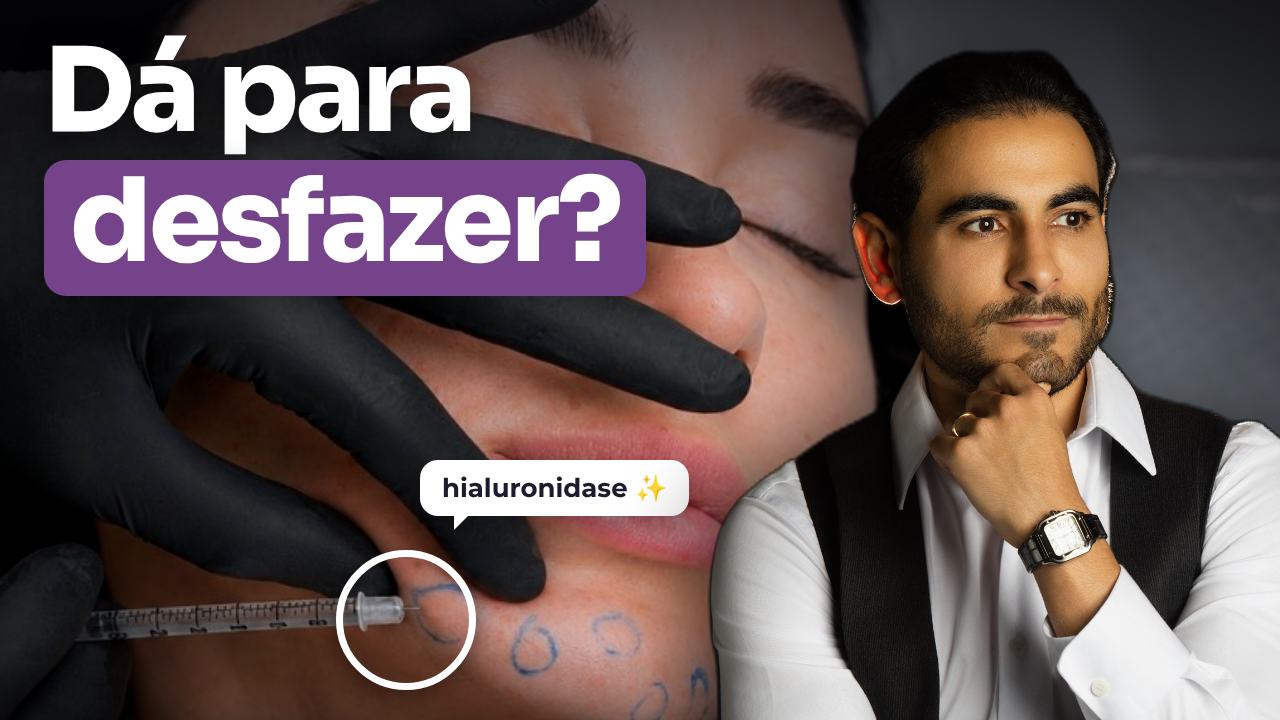
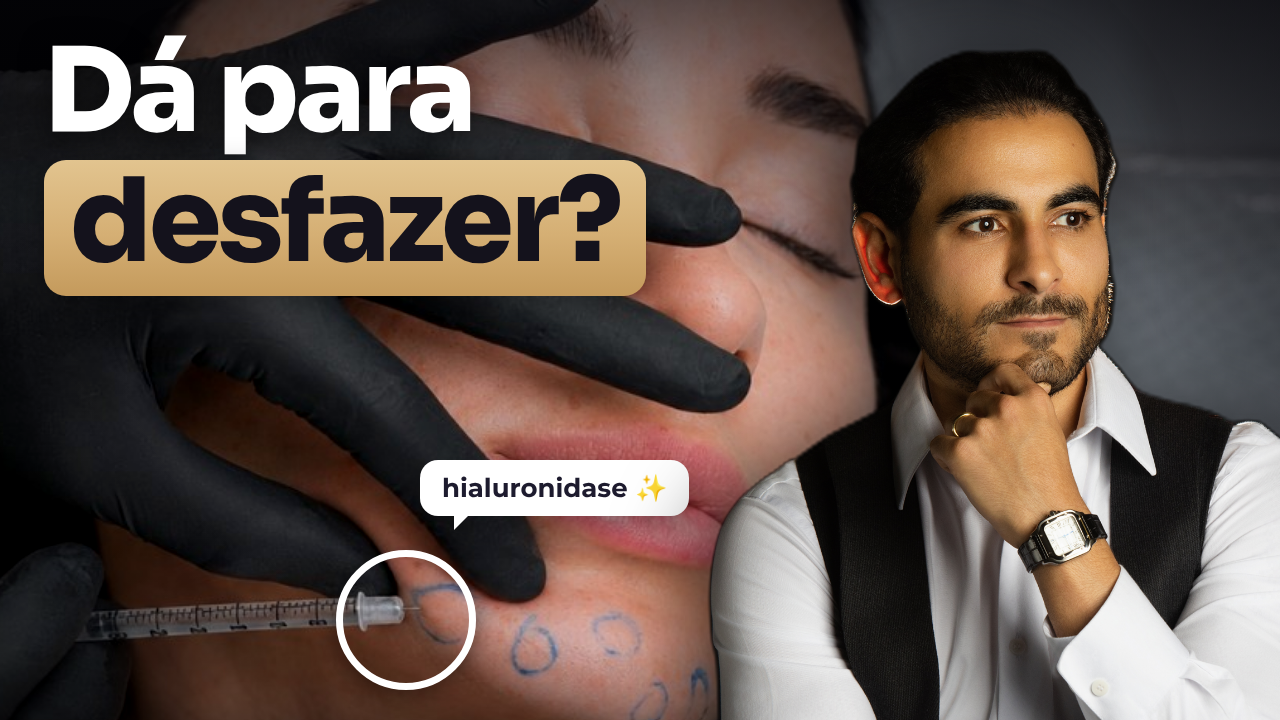
FEA thumbs v5: destaque em dourado FEP
Claude-Session: https://claude.ai/code/session_011MH3jdyDdLhbFaeptuadsh

Changed region(s): [[0.0312, 0.2139, 0.5312, 0.4278]]

diff --git a/FEA-thumbs-youtube/FEA-thumbs-v5.html b/FEA-thumbs-youtube/FEA-thumbs-v5.html
@@ -10,7 +10,7 @@ body{background:#F9F9F9;padding:24px 16px}
 .cine{position:absolute;inset:0;background:linear-gradient(180deg,rgba(5,5,10,.55) 0%,rgba(5,5,10,0) 40%),linear-gradient(90deg,rgba(5,5,10,0) 55%,rgba(5,5,10,.5) 100%),radial-gradient(ellipse at 50% 50%,transparent 55%,rgba(0,0,0,.45) 100%)}
 .joao{position:absolute;filter:drop-shadow(-20px 10px 40px rgba(0,0,0,.6))}
 .txt{position:absolute;left:44px;top:34px;font-weight:800;letter-spacing:-.03em;line-height:1;color:#fff;font-size:116px;text-shadow:0 6px 30px rgba(0,0,0,.55)}
-.box{display:inline-block;margin-top:10px;background:#75438A;color:#fff;padding:4px 26px 16px;border-radius:22px;text-shadow:none;box-shadow:0 10px 30px rgba(0,0,0,.35)}
+.box{display:inline-block;margin-top:10px;background:linear-gradient(180deg,#E2C48F 0%,#D5AF74 55%,#C49A5C 100%);color:#14121c;padding:4px 26px 16px;border-radius:22px;text-shadow:none;box-shadow:0 10px 30px rgba(0,0,0,.35)}
 .balao{position:absolute;background:#fff;color:#1d1b2e;font:700 26px Montserrat;padding:12px 22px;border-radius:18px;box-shadow:0 10px 30px rgba(0,0,0,.35)}
 .balao:after{content:'';position:absolute;left:34px;bottom:-14px;border-top:16px solid #fff;border-right:16px solid transparent}
 .alvo{position:absolute;border:7px solid #fff;border-radius:50%;box-shadow:0 0 24px rgba(0,0,0,.5)}
